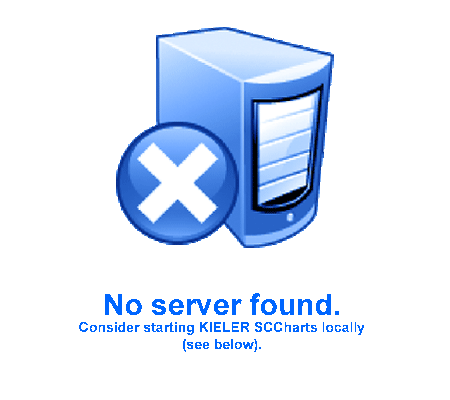
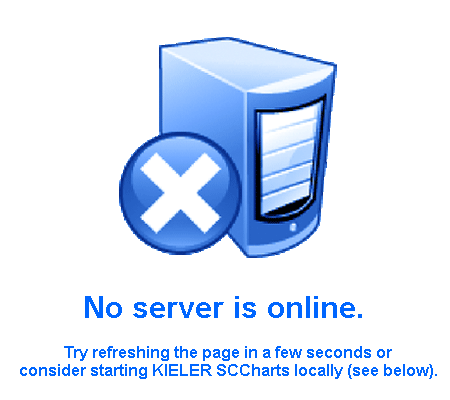
added comments to the examples, modified error message

Changed region(s): [[0.2489, 0.06, 0.7467, 0.66], [0.0311, 0.72, 0.9644, 0.96]]

diff --git a/plugins/de.cau.cs.kieler.server/client/index.htm b/plugins/de.cau.cs.kieler.server/client/index.htm
@@ -531,6 +531,15 @@ function updateImage() {
                 <span style="margin-top:20px">
 				
                 <textarea name="model"  class="form-control" style="margin-top:5px;font-family:monospace;font-weight:normal;min-width: 100%;max-width: 100%" cols="70" rows="20" id="model" onchange="compile();">
+// The AO example is one of the simpler SCCharts models. It has a boolean input
+// A and a boolean output O. O is initially set to false, which is an extended
+// SCCharts feature.
+// AO waits for A becoming true inside state wA. If A becomes true, in any
+// tick other than the initial one, and AO is still inside state wA, then the
+// transition from wA to dA is taken. This also sets the output O to true.
+// Note that AO is not responsive in state dA. However, as dA is not a final 
+// state, AO does not terminate.
+
 @HVLayout 
 //@layout[direction] DOWN
 scchart AO { 
@@ -541,7 +550,7 @@ scchart AO {
   --> dA with A / O = true; 
      
   state dA;          
-}         
+} 
 </textarea>
 	   <select class="form-control" style="margin-top:5px"  name="example" id="example" onchange="loadExample();">
          <option selected="selected" value="">Load example...</option>
